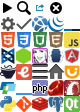
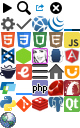
PostGIS styling

diff --git a/assets/stylesheets/global/_icons.scss b/assets/stylesheets/global/_icons.scss
@@ -4,7 +4,7 @@
   width: 1rem;
   height: 1rem;
   background-image: image-url('icons.png');
-  background-size: 5rem 7rem;
+  background-size: 5rem 8rem;
 }
 
 @media (-webkit-min-device-pixel-ratio: 1.5), (min-resolution: 144dpi) {
@@ -46,3 +46,4 @@
 ._icon-redis:before         { background-position: -2rem -6rem; }
 ._icon-postgresql:before    { background-position: -3rem -6rem; }
 ._icon-pyqt:before          { background-position: -4rem -6rem; }
+._icon-postgis:before       { background-position: 0 -7rem; }

diff --git a/assets/stylesheets/application.css.scss b/assets/stylesheets/application.css.scss
@@ -37,6 +37,7 @@
         'pages/mdn',
         'pages/node',
         'pages/php',
+        'pages/postgis',
         'pages/postgres',
         'pages/pyqt',
         'pages/rdoc',

diff --git a/assets/stylesheets/pages/_postgis.scss b/assets/stylesheets/pages/_postgis.scss
@@ -1,0 +1,8 @@
+._postgis {
+  padding-left: 1rem;
+
+  h2 {
+    margin-left: -1rem;
+    @extend %block-heading;
+  }
+}
